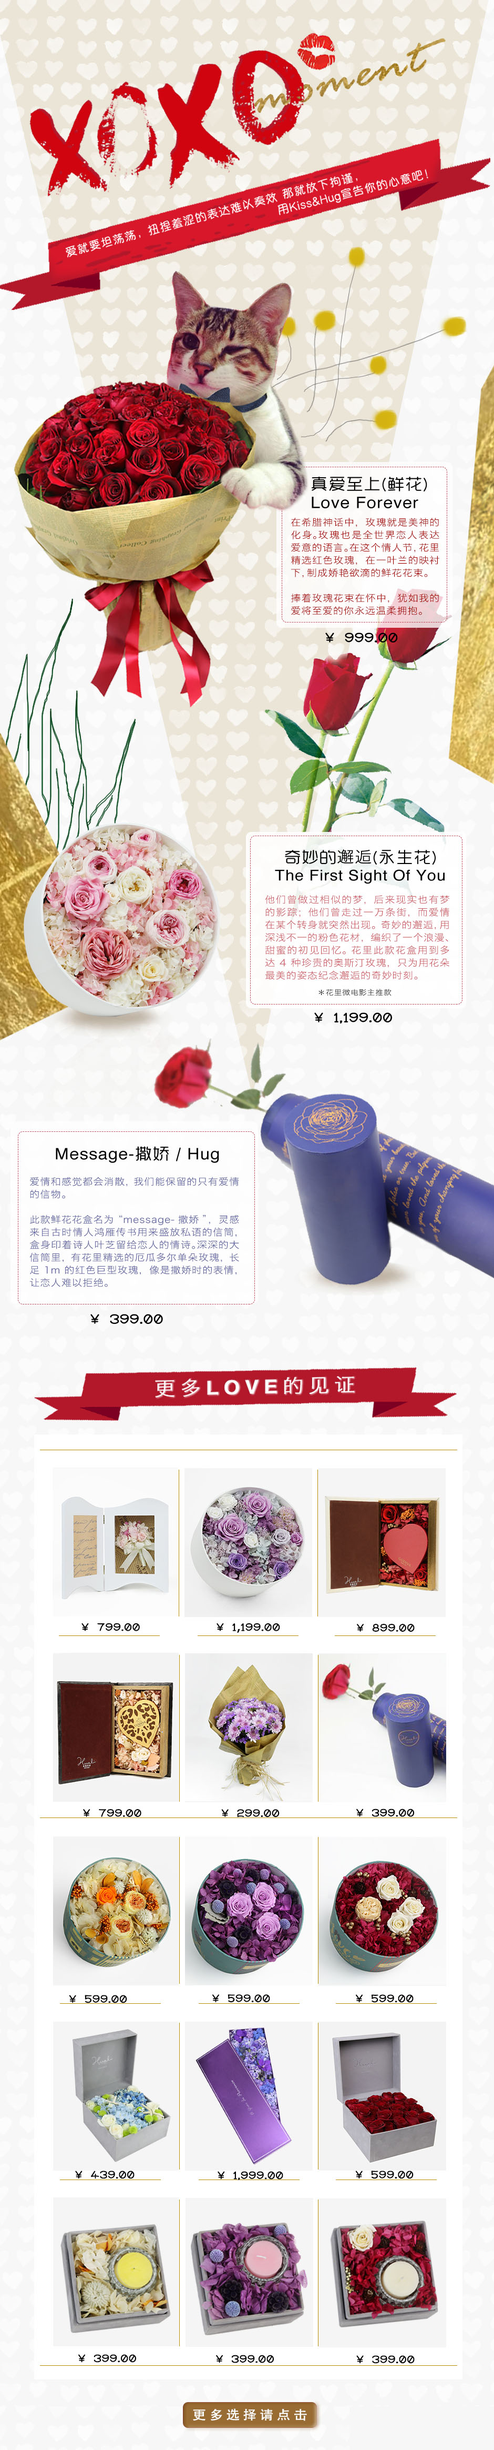
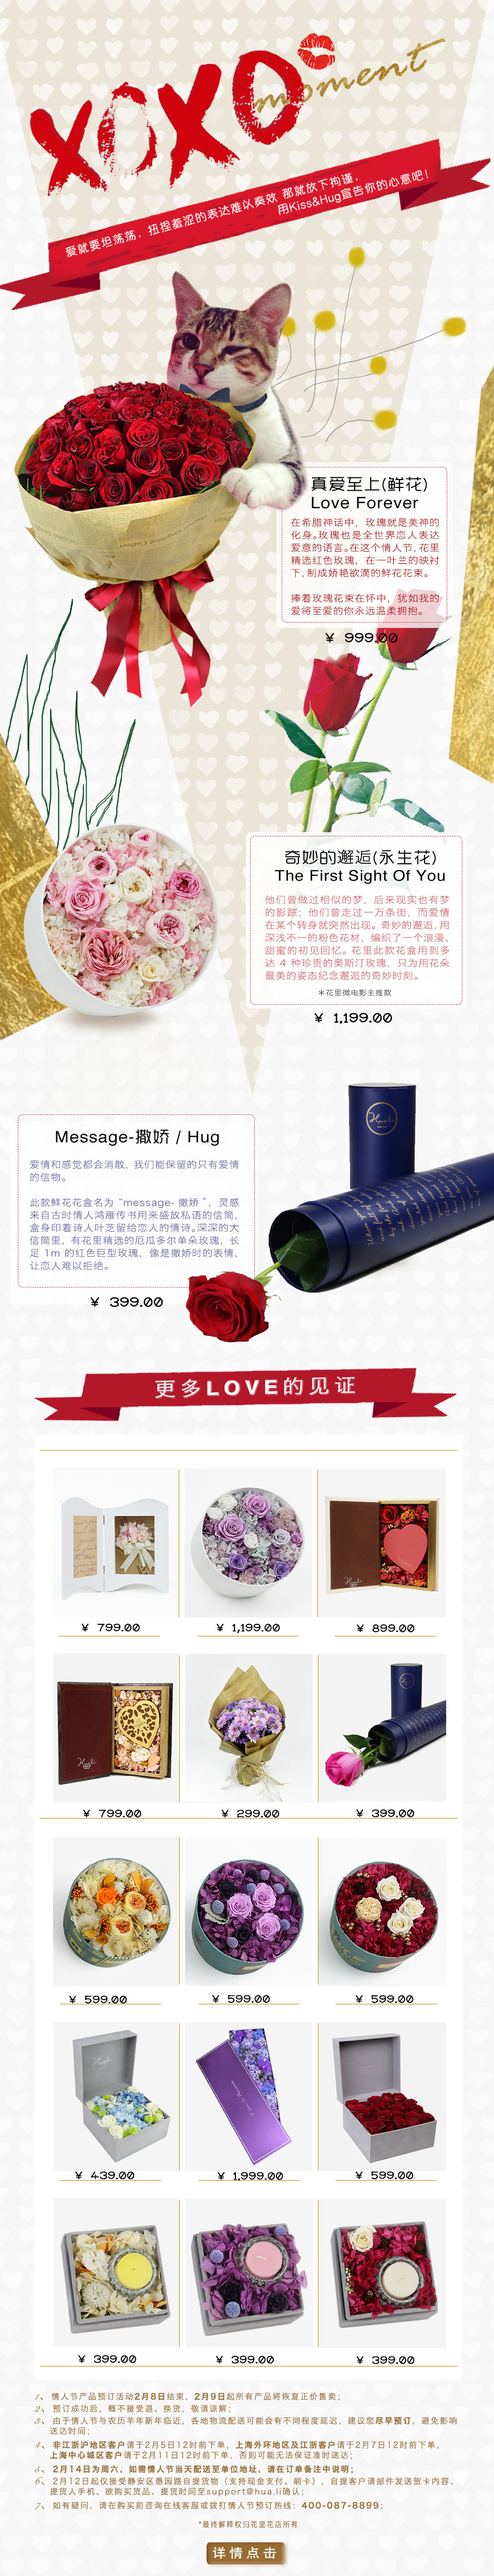
adjust the layout of valentine page

diff --git a/app/assets/stylesheets/modules/valentine-2015.sass b/app/assets/stylesheets/modules/valentine-2015.sass
@@ -41,107 +41,107 @@
     left: 3%
     top: 30%
     width: 865px
-    height: 427px
+    height: 529px
 
   #product_link_3
     left: 3%
-    top: 39%
+    top: 41%
     width: 865px
     height: 554px
 
   .more
     #product_link_1
       left: 7%
-      top: 60%
+      top: 57%
       width: 275px
       height: 315px
 
     #product_link_2
       left: 36%
-      top: 60%
+      top: 57%
       width: 265px
       height: 315px
 
     #product_link_3
       left: 64%
-      top: 60%
+      top: 57%
       width: 265px
       height: 315px
 
     #product_link_4
       left: 7%
-      top: 67%
+      top: 63.5%
       width: 275px
       height: 334px
 
     #product_link_5
       left: 36%
-      top: 67%
+      top: 63.5%
       width: 265px
       height: 334px
 
     #product_link_6
       left: 64%
-      top: 67%
+      top: 63.5%
       width: 265px
       height: 334px
 
     #product_link_7
       left: 7%
-      top: 75%
+      top: 71%
       width: 275px
-      height: 317px
+      height: 347px
 
     #product_link_8
       left: 36%
-      top: 75%
+      top: 71%
       width: 265px
-      height: 317px
+      height: 347px
 
     #product_link_9
       left: 64%
-      top: 75%
+      top: 71%
       width: 265px
-      height: 317px
+      height: 347px
 
     #product_link_10
       left: 7%
-      top: 82%
+      top: 78%
       width: 275px
       height: 324px
 
     #product_link_11
       left: 36%
-      top: 82%
+      top: 78%
       width: 265px
       height: 324px
 
     #product_link_12
       left: 64%
-      top: 82%
+      top: 78%
       width: 265px
       height: 324px
 
     #product_link_13
       left: 7%
-      top: 89%
+      top: 85%
       width: 275px
       height: 351px
 
     #product_link_14
       left: 36%
-      top: 89%
+      top: 85%
       width: 265px
       height: 351px
 
     #product_link_15
       left: 64%
-      top: 89%
+      top: 85%
       width: 265px
       height: 351px
 
     #more-option
-      left: 36.5%
-      top: 98%
-      width: 265px
+      left: 41.5%
+      top: 98.5%
+      width: 155px
       height: 55px
